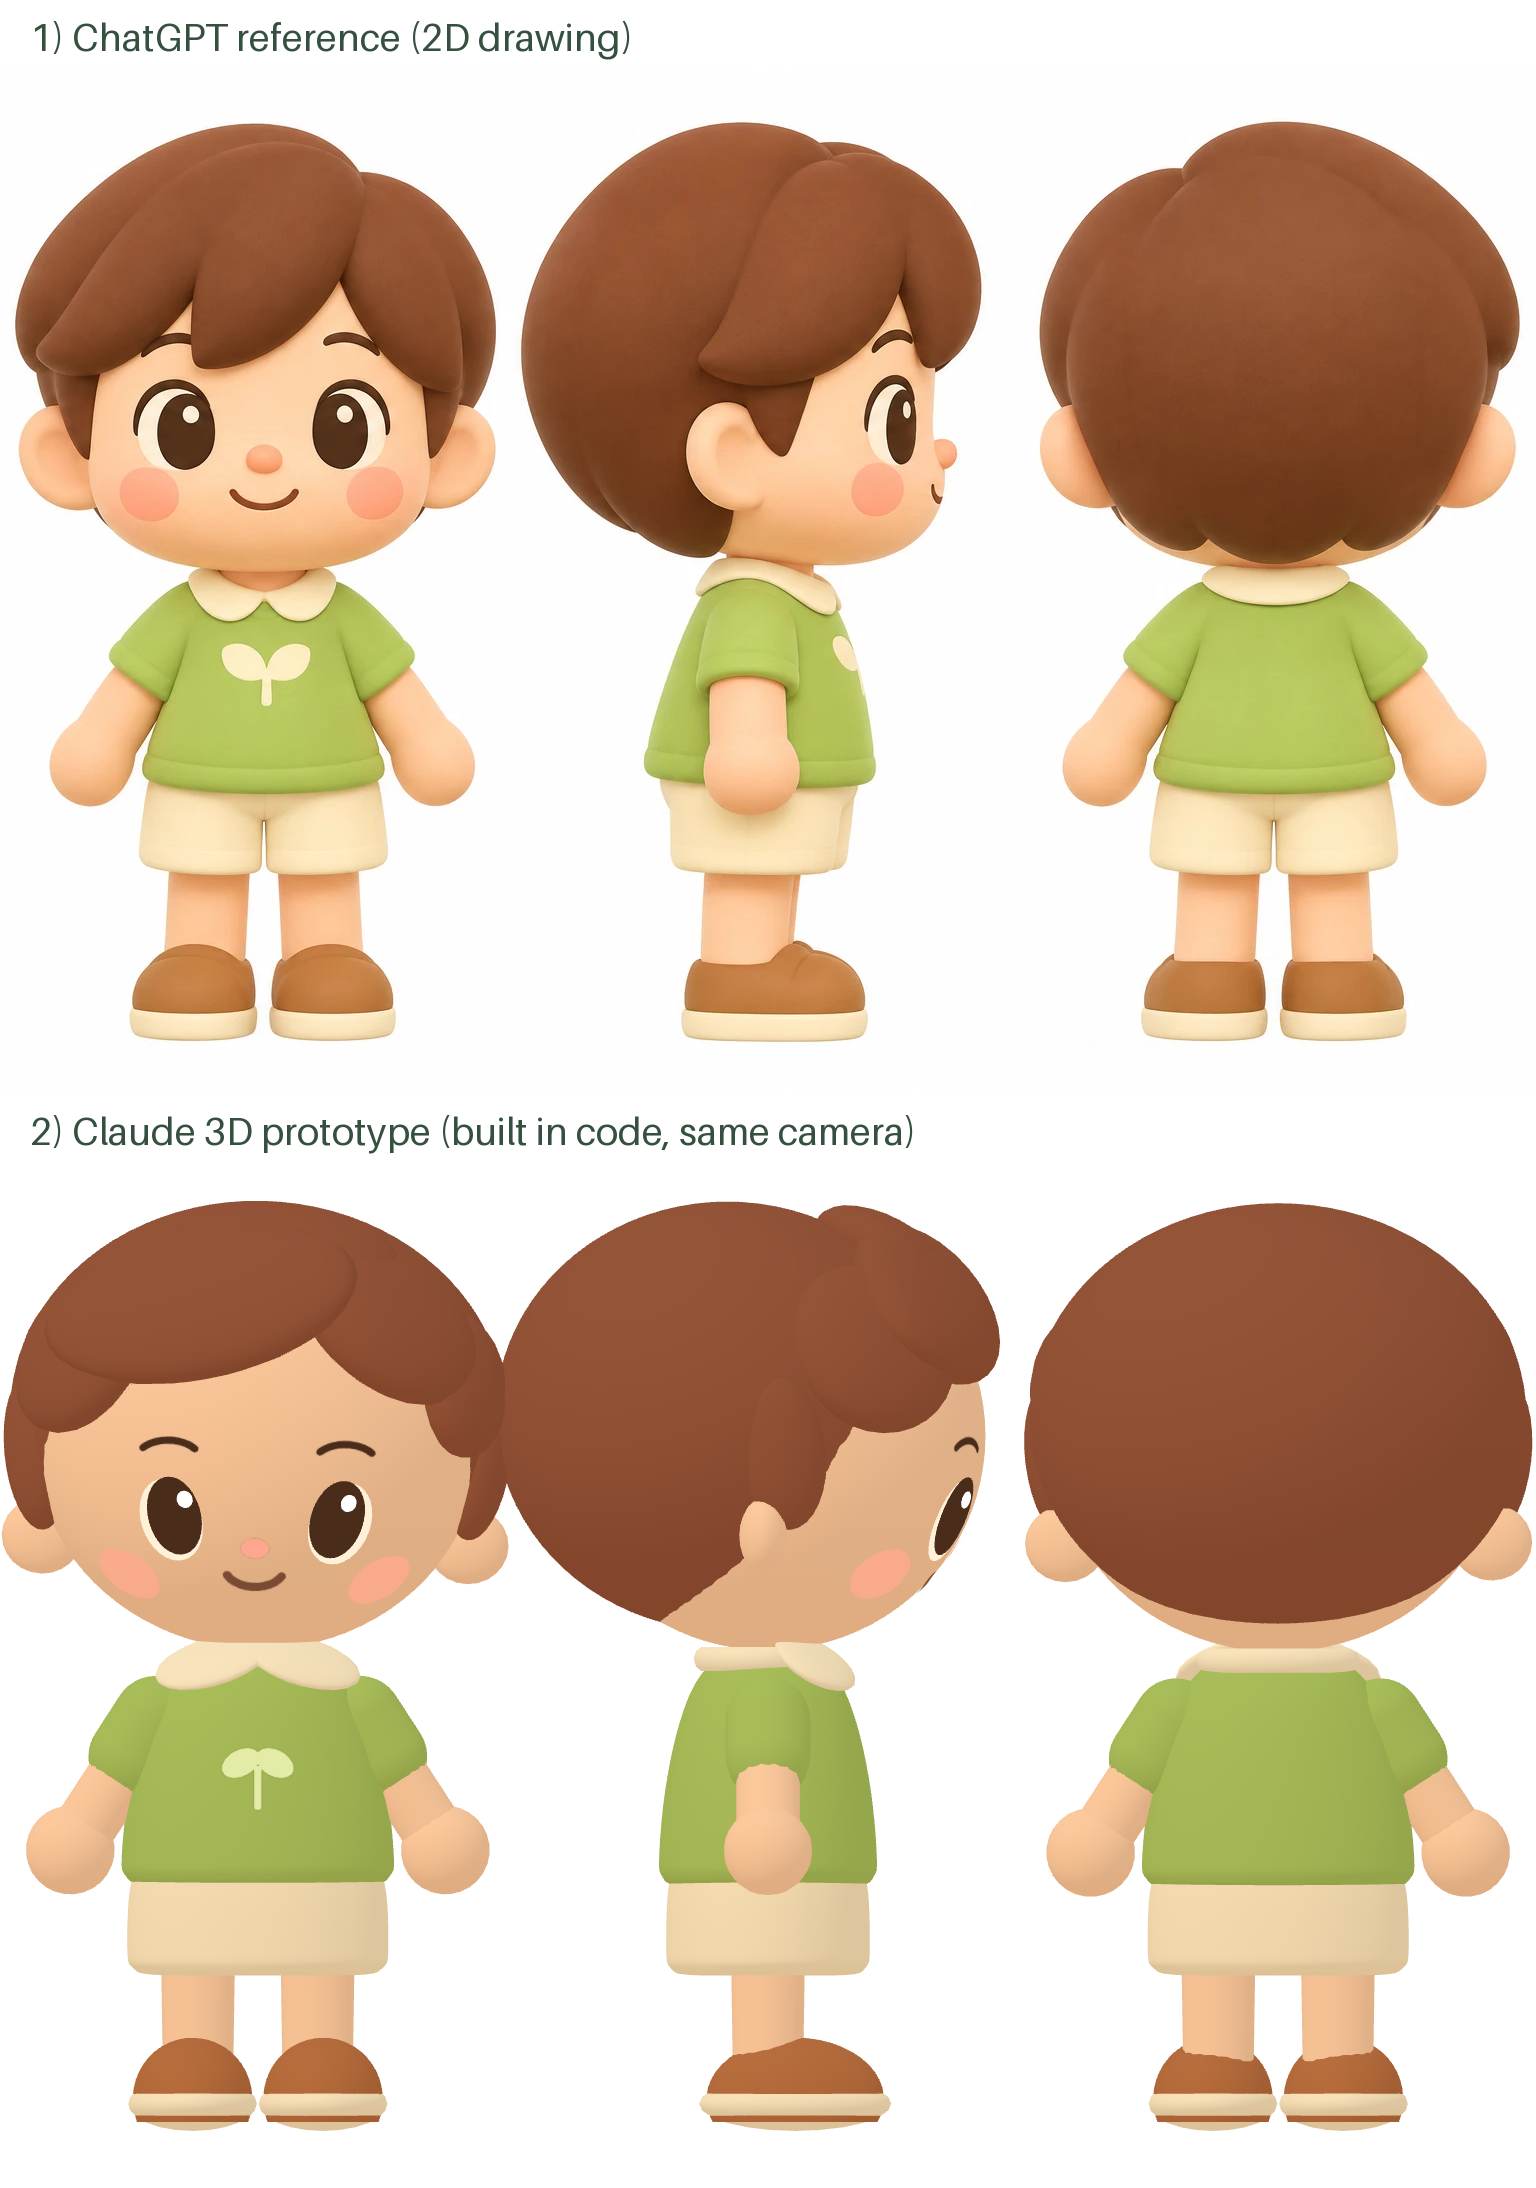
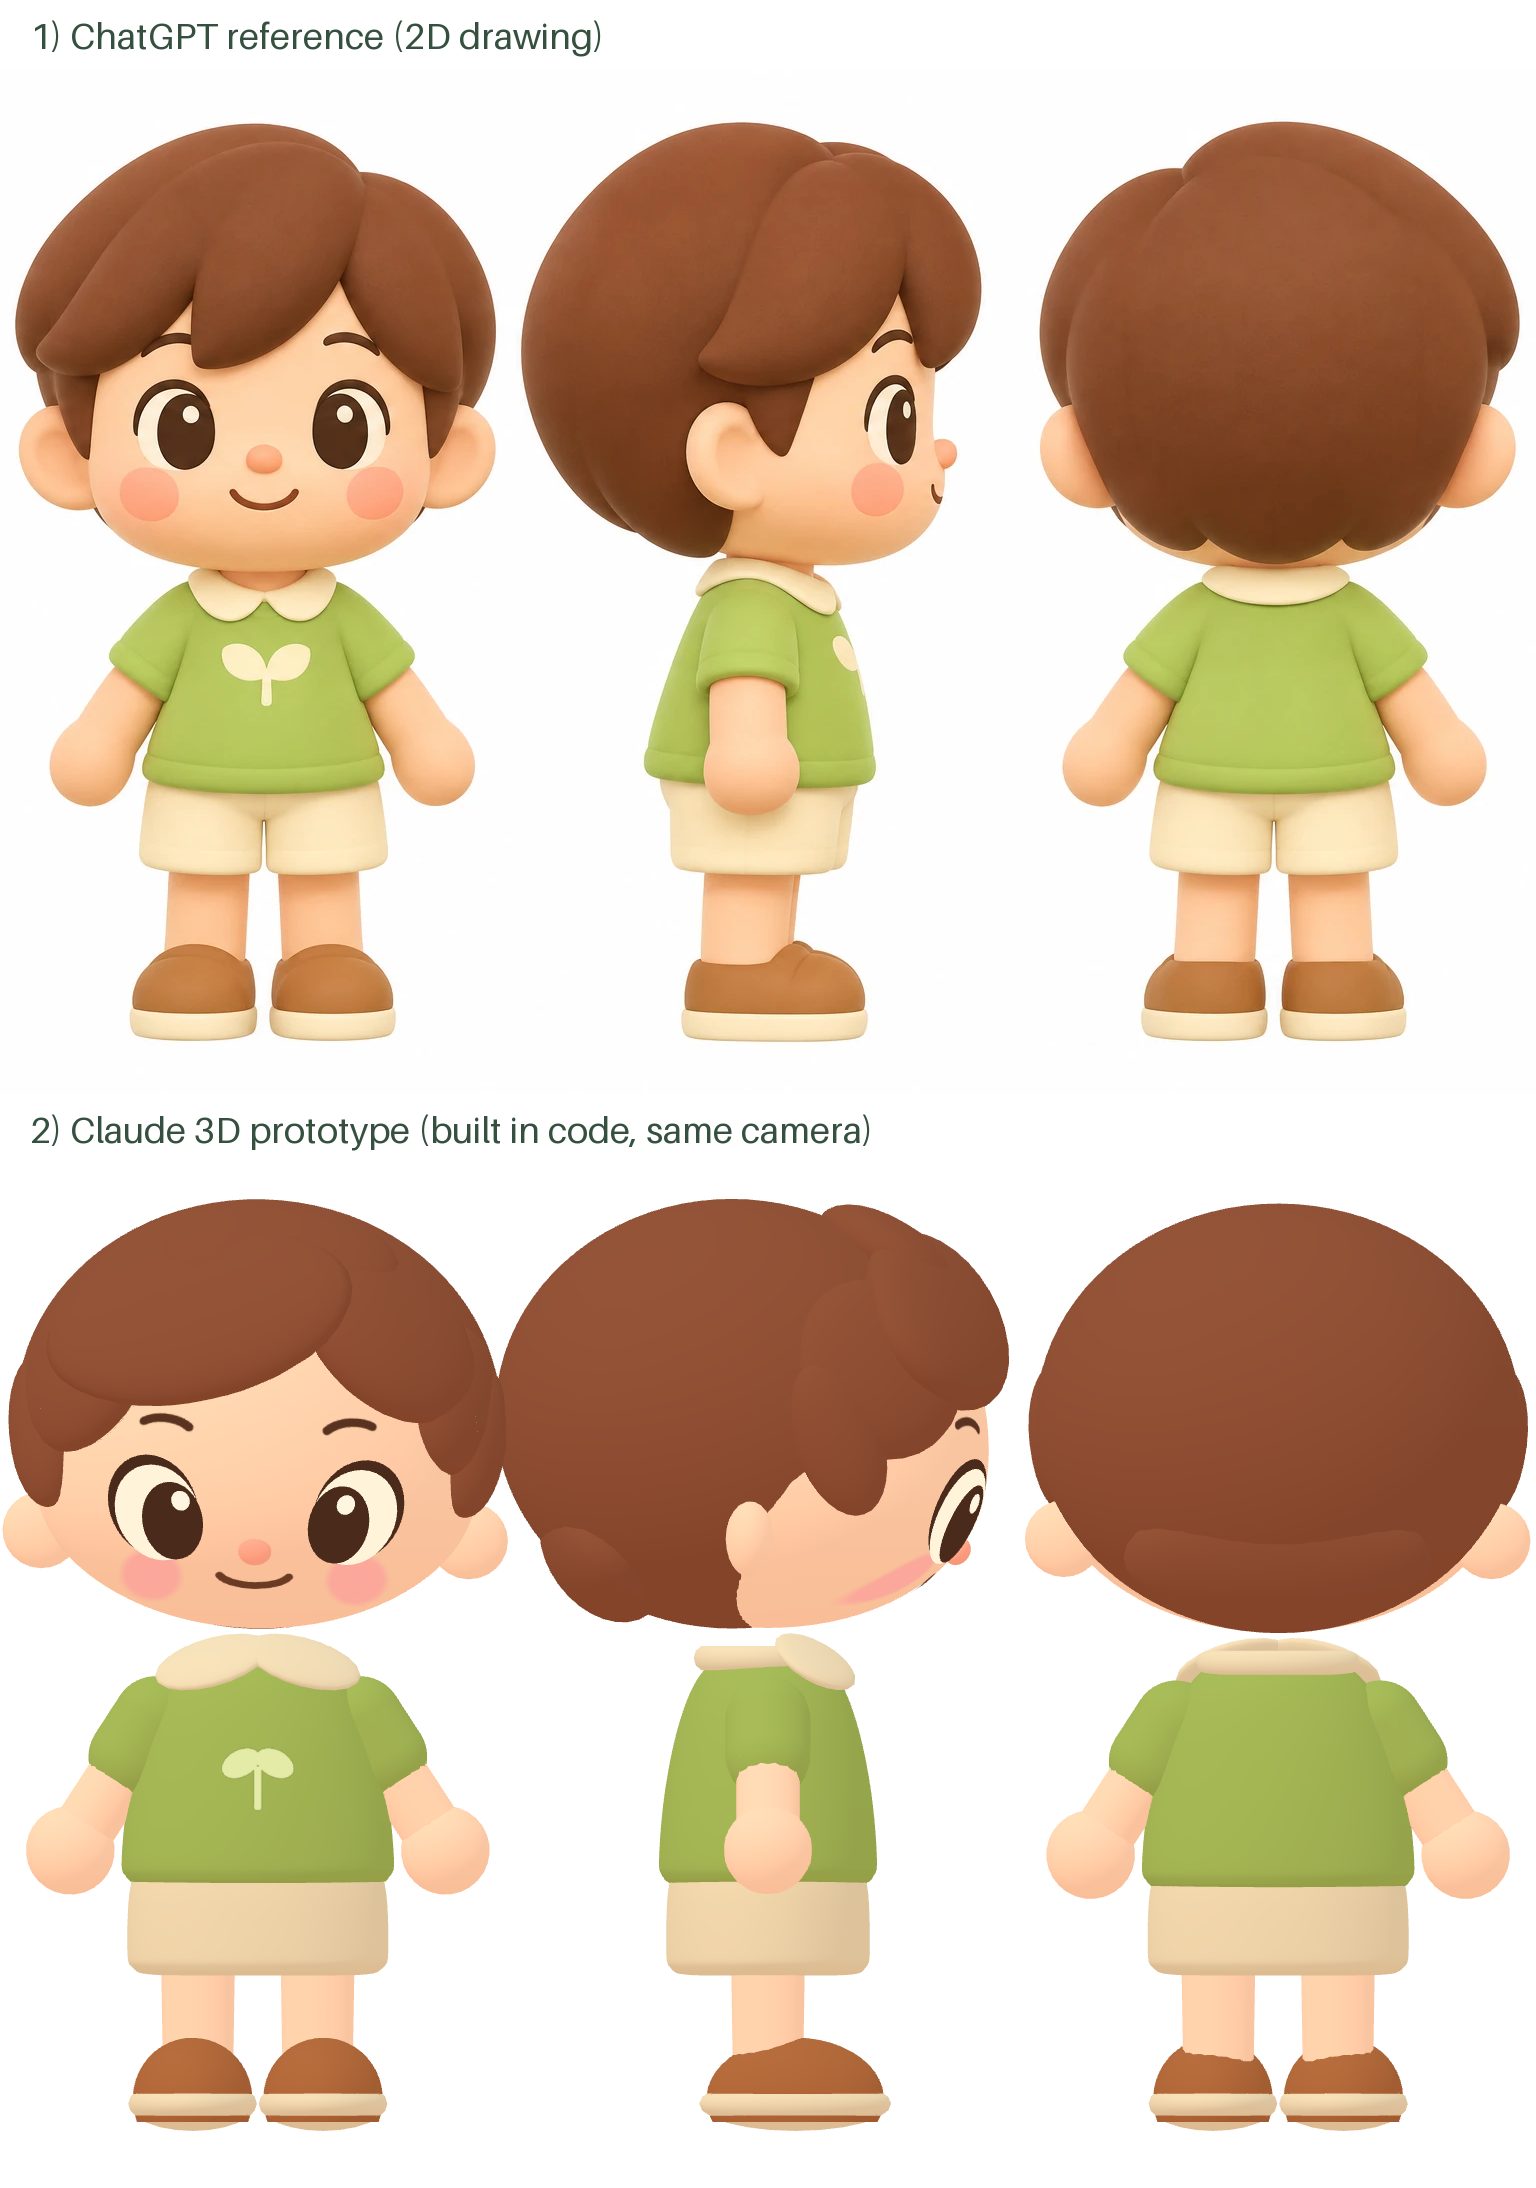
3D 아바타 시제품: 눈을 원본 구조(둥근 흰자, 안쪽 눈동자, 속눈썹 선)로 다시 만들고 볼살·코·볼터치 조정
Claude-Session: https://claude.ai/code/session_0159aZotMhLJwovxiTTw4ndE

diff --git a/prototype/3d-avatar/avatar.js b/prototype/3d-avatar/avatar.js
@@ -4,8 +4,8 @@ import * as THREE from 'three';
 
 const deg = THREE.MathUtils.degToRad;
 export const DEFAULT_LOOK = {
-  skin: '#FFDDC2', hair: '#96563A', shirt: '#AAC45E', collar: '#FBEBC6',
-  shorts: '#FBE8C0', shoe: '#B9703F', sole: '#FBE9C4', eye: '#43281A', cheek: '#FF9BA0', eyeScale: 1.22, cheekScale: 1.25,
+  skin: '#FFD9B8', hair: '#96563A', shirt: '#AAC45E', collar: '#FBEBC6',
+  shorts: '#FBE8C0', shoe: '#B9703F', sole: '#FBE9C4', eye: '#4A2B1B', cheek: '#FBA69B', eyeScale: 1.18, cheekScale: 1.0,
 };
 export const LOOKS = [
   {},
@@ -29,20 +29,26 @@ export function drawFace(look, mood = 'smile') {
   const k = FACE.W / FACE.span;
   const X = (x) => (x / FACE.span + 0.5) * FACE.W, Y = (y) => (0.5 - y / FACE.span) * FACE.H;
   const ell = (x, y, rx, ry, fill) => { g.beginPath(); g.ellipse(X(x), Y(y), rx * k, ry * k, 0, 0, Math.PI * 2); g.fillStyle = fill; g.fill(); };
+  for (const s of [-1, 1]) {
+    const px = X(s * 0.102), py = Y(-0.168), rx = 0.033 * k * look.cheekScale, ry = 0.037 * k * look.cheekScale;
+    g.save(); g.translate(px, py); g.scale(rx, ry);
+    const gr = g.createRadialGradient(0, 0, 0, 0, 0, 1);
+    gr.addColorStop(0, look.cheek + 'f5'); gr.addColorStop(0.78, look.cheek + 'e8'); gr.addColorStop(1, look.cheek + '00');
+    g.fillStyle = gr; g.beginPath(); g.arc(0, 0, 1, 0, Math.PI * 2); g.fill(); g.restore();
+  }
   g.lineCap = 'round';
   for (const s of [-1, 1]) {
     if (mood === 'read') {
       g.strokeStyle = look.eye; g.lineWidth = 0.011 * k;
       g.beginPath(); g.ellipse(X(s * 0.086), Y(-0.085), 0.03 * k, 0.022 * k, 0, 0.12 * Math.PI, 0.88 * Math.PI); g.stroke();
     }
-    g.strokeStyle = look.hair; g.lineWidth = 0.0075 * k;
-    g.beginPath(); g.ellipse(X(s * 0.096), Y(-0.024 + (look.eyeScale - 1) * 0.02), 0.028 * k, 0.018 * k, 0, Math.PI * 1.25, Math.PI * 1.75); g.stroke();
+    g.strokeStyle = '#5A3320'; g.lineWidth = 0.0095 * k;
+    g.beginPath(); g.ellipse(X(s * 0.1), Y(-0.002), 0.032 * k, 0.019 * k, s * -0.12, Math.PI * 1.22, Math.PI * 1.78); g.stroke();
   }
-  ell(0, -0.132, 0.012, 0.009, '#FF9F8E');
-  g.lineWidth = 0.0085 * k; g.strokeStyle = '#8A5238';
+  g.lineWidth = 0.0088 * k; g.strokeStyle = '#6B3A22';
   g.beginPath();
-  if (mood === 'read') g.ellipse(X(0), Y(-0.168), 0.011 * k, 0.006 * k, 0, 0.1 * Math.PI, 0.9 * Math.PI);
-  else g.ellipse(X(0), Y(-0.156), 0.026 * k, 0.02 * k, 0, 0.16 * Math.PI, 0.84 * Math.PI);
+  if (mood === 'read') g.ellipse(X(0), Y(-0.168), 0.012 * k, 0.006 * k, 0, 0.1 * Math.PI, 0.9 * Math.PI);
+  else g.ellipse(X(0), Y(-0.16), 0.036 * k, 0.018 * k, 0, 0.1 * Math.PI, 0.9 * Math.PI);
   g.stroke();
   const t = new THREE.CanvasTexture(c);
   t.colorSpace = THREE.SRGBColorSpace; t.anisotropy = 4;
@@ -52,7 +58,7 @@ export function drawFace(look, mood = 'smile') {
 function blushTexture(color) {
   const c = document.createElement('canvas'); c.width = c.height = 128;
   const g = c.getContext('2d'); const gr = g.createRadialGradient(64, 64, 0, 64, 64, 64);
-  gr.addColorStop(0, color + 'e6'); gr.addColorStop(0.45, color + 'b8'); gr.addColorStop(1, color + '00');
+  gr.addColorStop(0, color + 'f0'); gr.addColorStop(0.72, color + 'e0'); gr.addColorStop(1, color + '00');
   g.fillStyle = gr; g.fillRect(0, 0, 128, 128);
   const t = new THREE.CanvasTexture(c); t.colorSpace = THREE.SRGBColorSpace; return t;
 }
@@ -66,6 +72,34 @@ function sproutTexture(color) {
   g.beginPath(); g.ellipse(86, 52, 26, 17, 0.5, 0, Math.PI * 2); g.fill();
   g.fillRect(59, 56, 10, 52); g.beginPath(); g.arc(64, 108, 5, 0, Math.PI * 2); g.fill();
   const t = new THREE.CanvasTexture(c); t.colorSpace = THREE.SRGBColorSpace; return t;
+}
+
+// 볼살: 머리 아래쪽 절반을 옆으로 통통하게 부풀림 (원본 그림의 넓적한 볼)
+function puff(v) {
+  const t = v.y / HEAD_R;
+  const w = Math.exp(-Math.pow((t + 0.58) / 0.5, 2));
+  const f = THREE.MathUtils.smoothstep(v.z / HEAD_R, -0.3, 0.3);   // 얼굴 쪽(앞)만 부풀림, 뒤통수는 그대로
+  v.x *= 1 + 0.12 * w * f;
+  v.z *= 1 + 0.05 * w * f;             // 볼과 입가를 앞으로 도톰하게(옆모습이 평평한 얼굴)
+  if (t < 0) v.y *= 1 - 0.1 * t * t;   // 턱을 살짝 올려 납작하고 넓은 턱선
+  return v;
+}
+function puffGeometry(geo) {
+  const p = geo.attributes.position, v = new THREE.Vector3();
+  for (let i = 0; i < p.count; i++) { v.fromBufferAttribute(p, i); puff(v); p.setXYZ(i, v.x, v.y, v.z); }
+  geo.computeVertexNormals();
+  return geo;
+}
+// 얼굴 위 (x, y) 지점에 납작한 조각을 붙임. 정면에서 봤을 때 기울지 않도록 세로축을 화면 세로에 맞춤
+function decal(parent, geo, material, x, y, sx, sy, sz, lift, order) {
+  const z = Math.sqrt(Math.max(0, HEAD_R * HEAD_R - x * x - y * y));
+  const n = new THREE.Vector3(x, y, z).normalize();
+  const m = new THREE.Mesh(geo, material);
+  m.position.copy(puff(n.clone().multiplyScalar(HEAD_R * lift)));
+  const yA = new THREE.Vector3(0, n.z, -n.y).normalize(), xA = new THREE.Vector3().crossVectors(yA, n);
+  m.quaternion.setFromRotationMatrix(new THREE.Matrix4().makeBasis(xA, yA, n));
+  m.scale.set(sx, sy, sz); m.renderOrder = order; parent.add(m);
+  return m;
 }
 
 // 머리 표면의 한 방향(yaw, pitch)에 납작한 타원체(머리카락 덩어리)를 붙임
@@ -133,54 +167,48 @@ export class Avatar {
 
     // ── 머리
     const head = (this.head = new THREE.Group()); head.position.set(0, 0.762, 0); torso.add(head);
-    head.scale.set(1.04, 0.985, 1);
-    head.add(new THREE.Mesh(new THREE.SphereGeometry(HEAD_R, 56, 44), M.skin));
+    head.scale.set(1.0, 0.985, 1);
+    head.add(new THREE.Mesh(puffGeometry(new THREE.SphereGeometry(HEAD_R, 56, 44)), M.skin));
     for (const s of [-1, 1]) {
-      const ear = new THREE.Mesh(new THREE.SphereGeometry(0.043, 16, 12), M.skin); ear.scale.z = 0.62; ear.position.set(s * 0.226, -0.118, -0.005); head.add(ear);
+      const ear = new THREE.Mesh(new THREE.SphereGeometry(0.043, 16, 12), M.skin); ear.scale.z = 0.62; ear.position.set(s * 0.236, -0.112, -0.02); head.add(ear);
     }
     // 얼굴 그림(표정 교체 가능)
     this.faceMat = new THREE.MeshBasicMaterial({ map: drawFace(look, 'smile'), transparent: true, depthWrite: false });
     const faceGeo = new THREE.SphereGeometry(HEAD_R * 1.006, 40, 30, Math.PI / 2 - FACE.alpha, FACE.alpha * 2, FACE.t0, FACE.tLen);
     { const p = faceGeo.attributes.position, uv = faceGeo.attributes.uv;
       for (let i = 0; i < p.count; i++) uv.setXY(i, p.getX(i) / FACE.span + 0.5, p.getY(i) / FACE.span + 0.5); }
+    puffGeometry(faceGeo);
     const face = new THREE.Mesh(faceGeo, this.faceMat);
-    face.renderOrder = 3; head.add(face);
+    face.renderOrder = 0; head.add(face);
     // 눈·볼터치: 머리 표면에 붙인 납작한 조각(옆에서 봐도 모양 유지)
     const flat = (color, opacity = 1) => new THREE.MeshBasicMaterial({ color, transparent: true, opacity, depthWrite: false });
     const onFace = (x, y) => { const z = Math.sqrt(Math.max(0, HEAD_R * HEAD_R - x * x - y * y)); return [THREE.MathUtils.radToDeg(Math.atan2(x, z)), THREE.MathUtils.radToDeg(Math.asin(y / HEAD_R))]; };
+    // 원본 그림의 눈 구조: 둥근 크림색 흰자 + 안쪽·아래로 붙은 눈동자 + 위·바깥쪽을 감싸는 짙은 속눈썹 선
     this.eyes = [];
     const es = look.eyeScale, cs = look.cheekScale;
-    const cheekTex = blushTexture(look.cheek);
+    const ball = new THREE.SphereGeometry(1, 24, 18), disc = new THREE.CircleGeometry(1, 28);
     for (const s of [-1, 1]) {
-      const ex = s * (0.088 + (es - 1) * 0.012), ey = -0.094 - (es - 1) * 0.012;
-      const [yw, pt] = onFace(ex, ey);
-      const white = lobe(head, flat('#FFF4E0'), yw + s * 1.0, pt - 1.0, 0.0365 * es, 0.0505 * es, 0.006, 0, HEAD_R * 1.002); white.renderOrder = 1;
-      const pupil = lobe(head, flat(look.eye), yw, pt, 0.031 * es, 0.047 * es, 0.008, 0, HEAD_R * 1.004); pupil.renderOrder = 2;
-      // 눈동자 아래쪽 밝은 갈색(촉촉한 느낌)
-      const [iy, ip] = onFace(ex, ey - 0.02 * es);
-      const iris = lobe(head, flat('#8A5636', 0.75), iy, ip, 0.021 * es, 0.02 * es, 0.004, 0, HEAD_R * 1.012); iris.renderOrder = 3;
-      const [hy, hp] = onFace(ex + 0.011 * es, ey + 0.02 * es);
-      const glint = lobe(head, flat('#ffffff'), hy, hp, 0.0115 * es, 0.0125 * es, 0.004, 0, HEAD_R * 1.02); glint.renderOrder = 4;
-      const [gy, gp] = onFace(ex - 0.012 * es, ey - 0.014 * es);
-      const glint2 = lobe(head, flat('#ffffff', 0.9), gy, gp, 0.005 * es, 0.0055 * es, 0.003, 0, HEAD_R * 1.022); glint2.renderOrder = 4;
-      this.eyes.push(white, pupil, iris, glint, glint2);
-      // 볼터치: 가장자리가 부드럽게 번지는 원
-      const [cy, cp] = onFace(s * 0.135, -0.158 - (es - 1) * 0.02);
-      const dirc = new THREE.Vector3(Math.sin(deg(cy)) * Math.cos(deg(cp)), Math.sin(deg(cp)), Math.cos(deg(cy)) * Math.cos(deg(cp)));
-      const cheek = new THREE.Mesh(new THREE.CircleGeometry(0.05 * cs, 28), new THREE.MeshBasicMaterial({ map: cheekTex, transparent: true, depthWrite: false }));
-      cheek.position.copy(dirc).multiplyScalar(HEAD_R * 1.004); cheek.lookAt(dirc.clone().multiplyScalar(2)); cheek.scale.y = 0.86; cheek.renderOrder = 1; head.add(cheek);
+      const ex = s * 0.098, ey = -0.09;
+      const lash = decal(head, ball, flat(look.eye), ex + s * 0.0045 * es, ey + 0.0065 * es, 0.047 * es, 0.0515 * es, 0.004, 1.003, 1);
+      const white = decal(head, ball, flat('#FFF3DA'), ex, ey, 0.044 * es, 0.049 * es, 0.005, 1.005, 2);
+      const pupil = decal(head, ball, flat(look.eye), ex - s * 0.0135 * es, ey - 0.0075 * es, 0.0305 * es, 0.0405 * es, 0.006, 1.008, 3);
+      const glint = decal(head, ball, flat('#FFF6E2'), ex - s * 0.0135 * es + 0.006 * es, ey + 0.013 * es, 0.0092 * es, 0.0098 * es, 0.003, 1.02, 4);
+      this.eyes.push(lash, white, pupil, glint);
     }
+    // 코: 살짝 튀어나온 둥근 코
+    decal(head, ball, mat('#F9A88E', { emissive: '#F58F78', emissiveIntensity: 0.25 }), 0, -0.134, 0.0185, 0.0165, 0.014, 1.0, 0);
     // 머리카락: 머리보다 조금 큰 공을 뒤·위로 물려 씌우면 얼굴만 둥글게 드러남 + 앞머리 덩어리
     const hairSolid = mat(look.hair);
     const cap = new THREE.Mesh(new THREE.SphereGeometry(0.256, 56, 44), hairSolid);
-    cap.scale.set(1.03, 0.94, 1.0); cap.position.set(0, 0.022, -0.045); head.add(cap);
-    lobe(head, hairSolid, -20, 38, 0.172, 0.104, 0.046, 16);   // 큰 앞머리(화면 왼쪽)
-    lobe(head, hairSolid, -58, 23, 0.104, 0.1, 0.046, 42);     // 왼쪽 끝자락
-    lobe(head, hairSolid, 8, 56, 0.13, 0.09, 0.046, 0);        // 정수리 앞
-    lobe(head, hairSolid, 43, 33, 0.114, 0.098, 0.046, -36);   // 오른쪽 앞머리
-    lobe(head, hairSolid, 69, 15, 0.074, 0.096, 0.042, -52);   // 오른쪽 끝자락
-    lobe(head, hairSolid, -86, -6, 0.048, 0.088, 0.034, 6);    // 귀 앞 옆머리
-    lobe(head, hairSolid, 86, -6, 0.048, 0.088, 0.034, -6);
+    cap.scale.set(1.045, 0.94, 1.02); cap.position.set(0, 0.024, -0.04); head.add(cap);
+    lobe(head, hairSolid, -20, 33, 0.176, 0.108, 0.046, 16);   // 큰 앞머리(화면 왼쪽)
+    lobe(head, hairSolid, -57, 19, 0.108, 0.104, 0.046, 42);   // 왼쪽 끝자락
+    lobe(head, hairSolid, 8, 54, 0.135, 0.095, 0.046, 0);      // 정수리 앞
+    lobe(head, hairSolid, 43, 29, 0.118, 0.102, 0.046, -36);   // 오른쪽 앞머리
+    lobe(head, hairSolid, 68, 11, 0.078, 0.1, 0.042, -52);     // 오른쪽 끝자락
+    lobe(head, hairSolid, -72, 0, 0.05, 0.09, 0.036, 20, HEAD_R * 1.04);   // 귀 앞 옆머리
+    lobe(head, hairSolid, 72, 0, 0.05, 0.09, 0.036, -20, HEAD_R * 1.04);
+    lobe(head, hairSolid, 180, -36, 0.17, 0.085, 0.06, 0, HEAD_R * 0.94);     // 뒷목
 
     // 바닥 그림자(가벼운 원판)
     const sh = new THREE.Mesh(new THREE.CircleGeometry(0.2, 24), new THREE.MeshBasicMaterial({ color: '#5a4630', transparent: true, opacity: 0.16, depthWrite: false }));

diff --git a/prototype/3d-avatar/demo.js b/prototype/3d-avatar/demo.js
@@ -17,12 +17,8 @@ if (view === 'faces') {
   const a = innerWidth / innerHeight, h = 0.62;
   camera = new THREE.OrthographicCamera(-h * a / 2, h * a / 2, h / 2, -h / 2, 0.1, 20);
   camera.position.set(0, 0.74, 5); camera.lookAt(0, 0.74, 0);
-  const opts = [
-    { skin: '#FFD0A6', cheek: '#FFA98C', eyeScale: 1.0, cheekScale: 0.82, _old: true },
-    {},
-    { eyeScale: 1.42, cheekScale: 1.45, skin: '#FFE2CB' },
-  ];
-  opts.forEach((o, i) => { const av = new Avatar(o); av.root.position.x = (i - 1) * 0.6; av.shadow.visible = false; scene.add(av.root); avatars.push(av); });
+  const opts = [{}];
+  opts.forEach((o, i) => { const av = new Avatar(o); av.root.position.x = 0; av.shadow.visible = false; scene.add(av.root); avatars.push(av); });
 } else if (view === 'turn') {
   scene.background = new THREE.Color('#ffffff');
   const a = innerWidth / innerHeight, h = 1.13;
